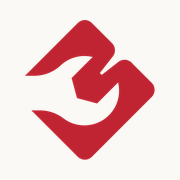
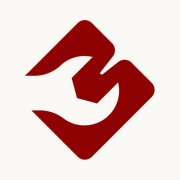
Stage 5 fix: one dark red, and plan decisions (#7)
* Stage 5 fix: one dark red, and record Adi's decisions

- One red, #8d0100, for links, buttons, marks and all icons.
- Plan: "Makin'Bug, Telford, UK" is settled for the site; buy
  buttons and Good 'til cancelled listings checked.

Claude-Session: https://claude.ai/code/session_01KEeWcPhqKNdks3uHy3FQQn

* Plan: tick Adi's done boxes for Stages 2, 3 and 4

Claude-Session: https://claude.ai/code/session_01KEeWcPhqKNdks3uHy3FQQn

---------

Changed region(s): [[0.1389, 0.1111, 0.8611, 0.8889]]

diff --git a/assets/css/custom.css b/assets/css/custom.css
@@ -23,15 +23,13 @@
   --sand: #f0eee6;
   --ink: #1f1e1d;
   --ink-soft: #5e5d59;
-  --red: #c02432;
-  --red-dark: #a51e2b;
-  --brand: #8d0100;
-  --brand-dark: #6e0100;
+  --red: #8d0100;
+  --red-dark: #6e0100;
   --amber: #f4c96b;
   --coral: #ee9b80;
   --tint-amber: #fbeccb;
   --tint-coral: #f9dfd3;
-  --tint-red: #f6dcd9;
+  --tint-red: #eddbd8;
   --line: #e6e3da;
   --line-strong: #d6d3c9;
   --serif: "Source Serif 4", Georgia, "Times New Roman", serif;
@@ -200,9 +198,9 @@ strong { font-weight: 600; }
 /* ---------- Buttons ---------- */
 .mb-btn {
   display: inline-block;
-  background: var(--brand);
+  background: var(--red);
   color: #fff;
-  border: 1px solid var(--brand);
+  border: 1px solid var(--red);
   border-radius: 8px;
   padding: 12px 20px;
   font-family: var(--sans);
@@ -212,7 +210,7 @@ strong { font-weight: 600; }
   text-align: center;
   text-decoration: none;
 }
-.mb-btn:hover { background: var(--brand-dark); border-color: var(--brand-dark); color: #fff; text-decoration: none; }
+.mb-btn:hover { background: var(--red-dark); border-color: var(--red-dark); color: #fff; text-decoration: none; }
 .mb-btn-2 { background: transparent; color: var(--ink); border-color: var(--line-strong); }
 .mb-btn-2:hover { background: var(--sand); border-color: var(--line-strong); color: var(--ink); }
 

diff --git a/docs/STYLE.md b/docs/STYLE.md
@@ -6,6 +6,7 @@ Stage 5, 30 Oct 2026. The styles live in `assets/css/custom.css`. This page says
 
 - A calm, warm look like claude.ai: off-white page, serif headings, plain sans text, lots of space.
 - A bit of colour on some things, like mistral.ai, but in softer shades.
+- One dark red only, for the logo, buttons, links and small marks (30 Oct 2026).
 - The same colours and fonts on the phone and the laptop.
 - Light theme only. No dark theme.
 - The old Duda look does not matter.
@@ -19,16 +20,15 @@ We take the mood from those sites, not their logos, artwork or layouts.
 | Paper | `#faf9f5` | Page background |
 | Sand | `#f0eee6` | Header line, cards, alternate bands, footer |
 | Ink | `#1f1e1d` | Headings and main text. Muted text uses `#5e5d59` |
-| Logo red | `#8d0100` | The logo and the buttons. Hover `#6e0100` |
-| Bug red | `#c02432` | From the logo icon. Links and small marks. Hover `#a51e2b` |
+| Logo red | `#8d0100` | From Adi's long logo. The logo, icons, buttons, links and small marks. Hover `#6e0100` |
 | Soft amber | `#f4c96b` | Colour blocks and accents |
 | Soft coral | `#ee9b80` | Colour blocks and accents |
 
-Card tints (the same colours, much lighter): amber `#fbeccb`, coral `#f9dfd3`, red `#f6dcd9`.
+Card tints (the same colours, much lighter): amber `#fbeccb`, coral `#f9dfd3`, red `#eddbd8`.
 
-The logo on the site is all Logo red, as in Adi's long logo file. The browser tab icon stays Bug red so it stands out in a row of tabs.
+The site uses one red only. Don't bring back the brighter red from the square logo.
 
-All text and background pairs pass WCAG AA contrast (4.5 to 1 or better). Bug red on Paper is 5.6 to 1. White on Logo red is 10 to 1 or better. Never put text on Soft amber or Soft coral at full strength; use the tints.
+All text and background pairs pass WCAG AA contrast (4.5 to 1 or better). Logo red on Paper is 9.3 to 1. White on Logo red is 9.8 to 1. Muted text on the red tint is 4.9 to 1. Never put text on Soft amber or Soft coral at full strength; use the tints.
 
 ## Fonts
 
@@ -61,7 +61,7 @@ Sizes (phone, then laptop):
 - Main button: Logo red, white text, 8px round corners, 12px by 20px padding, weight 600. Hover goes to `#6e0100`.
 - Second button: no fill, Ink text, 1px line in `#d6d3c9`, same shape. Hover fills with Sand.
 - The eBay button is always the main button. Its text is always "Buy on eBay".
-- Every link and button shows a 2px Bug red focus ring for keyboard users.
+- Every link and button shows a 2px Logo red focus ring for keyboard users.
 
 ## Cards
 
@@ -77,6 +77,6 @@ A row of stepped soft blocks (amber, coral, a small red one) sits under the home
 ## Logo and icons
 
 - `static/img/logo.png`: the long logo in Logo red, 96px tall, on a clear background. Shown 40px tall on the laptop, 32px on the phone.
-- `static/favicon.ico`, `static/favicon-32.png`: browser tab icon.
-- `static/apple-touch-icon.png`: icon for a phone home screen, on Paper.
+- `static/favicon.ico`, `static/favicon-32.png`: browser tab icon, in Logo red.
+- `static/apple-touch-icon.png`: icon for a phone home screen, in Logo red on Paper.
 - `static/img/icon.png`: the icon alone in Logo red, 160px, on a clear background. Used in the footer.

diff --git a/docs/PLAN.md b/docs/PLAN.md
@@ -28,8 +28,10 @@ The site is not a shop. It shows your CAD design, 3D printing and laser work, wi
 
 | Date | Decision | Why |
 | --- | --- | --- |
+| 30 Oct 2026 | One dark red, `#8d0100` from the long logo, for the logo, icons, buttons and links | Adi's choice after Stage 5. See `docs/STYLE.md` |
+| 30 Oct 2026 | "Makin'Bug, Telford, UK" and info@makinbug.uk are enough on the site. No owner's name or street address | Adi's choice. Settled, so don't ask again |
 | 29 Oct 2026 | One "Made to Order" page for all eBay products, in three groups: Miscellaneous Bits, Airsoft Stuff, Cycling Things. No single product pages | Simpler to run and to add to. Each product is still found on Google through its eBay listing |
-| 29 Oct 2026 | Site shows "Makin'Bug, Telford, UK" and info@makinbug.uk. No Duda shipping or returns text. | Adi's choice at Stage 3. The name and address part is not settled: see Still open |
+| 29 Oct 2026 | Site shows "Makin'Bug, Telford, UK" and info@makinbug.uk. No Duda shipping or returns text. | Adi's choice at Stage 3. Confirmed 30 Oct 2026 |
 | 29 Oct 2026 | Keep one Duda photo (the delta printer); product photos come from eBay | The product photos are already on the eBay listings; fewer files to copy |
 | 28 Oct 2026 | Plan master moves to `docs/PLAN.md` at Stage 1 | One home; a cheaper model finds it without being told |
 | 28 Oct 2026 | Ananke theme, plus one stylesheet of ours. Look based on anthropic.com, mistral.ai, wisprflow.ai and the Duda site | Simple, maintained base; the look comes from our own styles |
@@ -40,7 +42,7 @@ The site is not a shop. It shows your CAD design, 3D printing and laser work, wi
 | 16 Oct 2026 | Product pages with "Buy on eBay" buttons, no cart | eBay handles payment and postage |
 | 16 Oct 2026 | GitHub Pages and Hugo | Free hosting, same as the FOTTP site |
 
-Still open: whether "Makin'Bug, Telford, UK" is enough to show on the site. UK rules for online traders may need the owner's name and a full address. Decide before launch (Stage 7).
+Still open: nothing.
 
 ## Stages at a glance
 
@@ -210,7 +212,7 @@ Claude:
 
 After the pull request, you:
 
-- [ ] Merge, then click every buy button on makinbug.github.io, on the page and on the home page. Each must open the right listing.
+- [x] Merge, then click every buy button on makinbug.github.io, on the page and on the home page. Each must open the right listing.
 
 **Done when:** every product shows in the right group and every button opens its listing.
 
